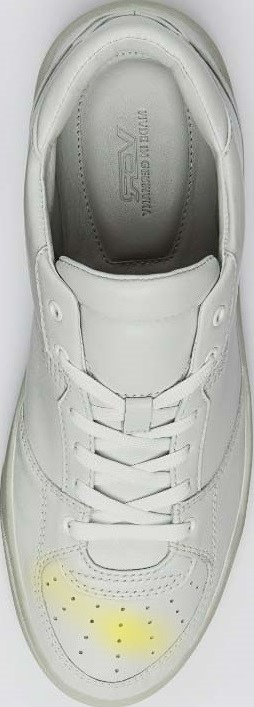
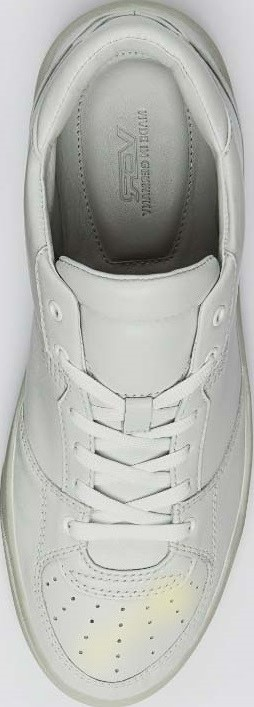
finish solution

Changed region(s): [[0.1378, 0.7779, 0.6614, 0.9335]]

diff --git a/FQCS.ColorDetection/final_solution/color_detection.py b/FQCS.ColorDetection/final_solution/color_detection.py
@@ -1,0 +1,106 @@
+import numpy as np 
+import cv2 
+
+def change_contrast_and_brightness(image, alpha, beta):
+    new_image = np.zeros(image.shape, image.dtype)
+    new_image = cv2.convertScaleAbs(image, alpha=alpha, beta=beta)
+    return new_image
+
+# [get-psnr]
+def getPSNR(I1, I2):
+    s1 = cv2.absdiff(I1, I2) #|I1 - I2|
+    s1 = np.float32(s1)     # cannot make a square on 8 bits
+    s1 = s1 * s1            # |I1 - I2|^2
+    sse = s1.sum()          # sum elements per channel
+    if sse <= 1e-10:        # sum channels
+        return 0            # for small values return zero
+    else:
+        shape = I1.shape
+        mse = 1.0 * sse / (shape[0] * shape[1] * shape[2])
+        psnr = 10.0 * np.log10((255 * 255) / mse)
+        return psnr
+
+def getMSSISM(i1, i2, C1, C2):
+    # INITS
+    I1 = np.float32(i1) # cannot calculate on one byte large values
+    I2 = np.float32(i2)
+    I2_2 = I2 * I2 # I2^2
+    I1_2 = I1 * I1 # I1^2
+    I1_I2 = I1 * I2 # I1 * I2
+    # END INITS
+    # PRELIMINARY COMPUTING
+    mu1 = cv2.GaussianBlur(I1, (11, 11), 1.5)
+    mu2 = cv2.GaussianBlur(I2, (11, 11), 1.5)
+    mu1_2 = mu1 * mu1
+    mu2_2 = mu2 * mu2
+    mu1_mu2 = mu1 * mu2
+    sigma1_2 = cv2.GaussianBlur(I1_2, (11, 11), 1.5)
+    sigma1_2 -= mu1_2
+    sigma2_2 = cv2.GaussianBlur(I2_2, (11, 11), 1.5)
+    sigma2_2 -= mu2_2
+    sigma12 = cv2.GaussianBlur(I1_I2, (11, 11), 1.5)
+    sigma12 -= mu1_mu2
+    t1 = 2 * mu1_mu2 + C1
+    t2 = 2 * sigma12 + C2
+    t3 = t1 * t2                    # t3 = ((2*mu1_mu2 + C1).*(2*sigma12 + C2))
+    t1 = mu1_2 + mu2_2 + C1
+    t2 = sigma1_2 + sigma2_2 + C2
+    t1 = t1 * t2                    # t1 =((mu1_2 + mu2_2 + C1).*(sigma1_2 + sigma2_2 + C2))
+    ssim_map = cv2.divide(t3, t1)    # ssim_map =  t3./t1;
+    mssim = cv2.mean(ssim_map)       # mssim = average of ssim map
+    return mssim
+
+def preprocess(img, img_size = (32, 64),blur_val = 0.05, alpha=1, beta=-150, sat_adj=2):
+    img = change_contrast_and_brightness(img, alpha, beta)
+    img = cv2.blur(img, (round(img.shape[0] * blur_val),round(img.shape[1] * blur_val)))
+    img = cv2.resize(img, img_size)
+    if (sat_adj!=1):
+        img = cv2.cvtColor(img, cv2.COLOR_BGR2HSV)
+        img[:,:,1]*=sat_adj
+        img = cv2.cvtColor(img, cv2.COLOR_HSV2BGR)
+    return img
+
+def find_diff(test, true, matrix, ver_step, hor_step, biases,C1,C2,psnrTriggerValue,min_similarity):
+    results = np.zeros(matrix)
+    for v in range(matrix[0]):
+        for h in range(matrix[1]):
+            sub_test = test[v*ver_step:(v+1)*ver_step, h*hor_step: (h+1)*hor_step]
+            sub_true = true[v*ver_step:(v+1)*ver_step, h*hor_step: (h+1)*hor_step]
+
+            # hist_diff(sub_left, sub_right, hist_color_thresh)
+
+            psnrv = getPSNR(sub_test, sub_true)
+            print("{}dB".format(round(psnrv, 3)))
+            mssimv = None
+            if (psnrv < psnrTriggerValue and psnrv):
+                mssimv = getMSSISM(sub_test, sub_true, C1, C2)
+                # bias
+                mssimv = np.array(mssimv)/biases[v,h]
+                print("MSSISM: R {}% G {}% B {}%".format(round(mssimv[0] * 100, 2), round(mssimv[1] * 100, 2),
+                                                        round(mssimv[2] * 100, 2)))
+
+            mssimv = None if mssimv is None else mssimv[:3]
+            has_diff = 1 if mssimv is not None and mssimv[mssimv<min_similarity].any() else 0
+            results[v,h] = has_diff
+
+    has_diff = results[results==1].any()
+    return results, has_diff
+
+def detect_color_difference(test_left, test_right, true_left, true_right, 
+    biases = None, C1=6.5025,
+    C2=58.5225,psnrTriggerValue = 40,img_size = (32, 64),
+    blur_val = 0.05, alpha_r=1, beta_r=-150, alpha_l=1, beta_l=-150,
+    sat_adj=2,
+    matrix = (4, 4),min_similarity = 0.8):
+    # START
+    right = preprocess(test_right, img_size, blur_val, alpha_r, beta_r, sat_adj)
+    left = preprocess(test_left, img_size, blur_val, alpha_l, beta_l, sat_adj)
+    if biases is None:
+        biases = np.ones(matrix)
+    # must be divisible 
+    ver_step = left.shape[0]//matrix[0]
+    hor_step = left.shape[1]//matrix[1]
+
+    left_results, left_has_diff = find_diff(left, true_left, matrix, ver_step, hor_step, biases,C1,C2,psnrTriggerValue, min_similarity)
+    right_results, right_has_diff = find_diff(right, true_right, matrix, ver_step, hor_step, biases,C1,C2,psnrTriggerValue,min_similarity)
+    return left_results, left_has_diff, right_results, right_has_diff   

diff --git a/FQCS.ColorDetection/final_test.py b/FQCS.ColorDetection/final_test.py
@@ -1,0 +1,54 @@
+from final_solution import color_detection as cd
+import numpy as np 
+import cv2 
+import matplotlib.pyplot as plt
+
+# -------------- PARAM ---------------------
+# increase mean decrease sensitive ... (manual test)
+# C1 = 6.5025
+# C2 = 58.5225
+C1 = 6.5025/3
+C2 = 58.5225/3
+
+psnrTriggerValue = 40
+img_size = (32, 64)
+blur_val = 0.05
+alpha_r, alpha_l = 1, 1
+beta_r, beta_l = -150, -150
+
+# SEGMENT MATRIX
+# matrix = (2, 2)
+matrix = (4, 4)
+# matrix = (8, 8)
+
+# BIASES MATRIX
+biases = np.array([
+    [0.9, 1.1, 1, 0.8],
+    [1, 1, 1, 0.8],
+    [0.65, 1, 1, 0.65],
+    [0.1, 1.1, 1.1, 0.1],
+])
+
+sat_adj = 2
+
+min_similarity = 0.9
+# -------------------------------------------
+left = cv2.imread("d_left_3.jpg")
+right = cv2.imread("d_right_3.jpg")
+true_left = cv2.imread("d_left_3_true.jpg")
+true_right = cv2.imread("d_right_3_true.jpg")
+
+true_left = cd.preprocess(true_left, img_size, blur_val, alpha_l, beta_l, sat_adj)
+true_right = cd.preprocess(true_right, img_size, blur_val, alpha_r, beta_r, sat_adj)
+
+left_results, left_has_diff, right_results, right_has_diff = cd.detect_color_difference(left, right, true_left, true_right,
+    biases, C1, C2, psnrTriggerValue, img_size, blur_val, alpha_r,beta_r,alpha_l,beta_l, sat_adj, matrix, min_similarity)
+
+fig,axs = plt.subplots(1, 2)
+left_res = "Left " if left_has_diff else ""
+right_res = "Right " if right_has_diff else ""
+if (left_has_diff or right_has_diff):
+    plt.title("Different " + left_res + right_res)
+axs[0].imshow(left)
+axs[1].imshow(right)
+plt.show()

diff --git a/FQCS.ColorDetection/m2_color_detection.py b/FQCS.ColorDetection/m2_color_detection.py
@@ -99,14 +99,21 @@ psnrTriggerValue = 40
 img_size = (32, 64)
 blur_val = 0.05
 left = cv2.imread("d_left_3.jpg")
-left = cv2.cvtColor(left, cv2.COLOR_BGR2RGB)
+left = cv2.cvtColor(left, cv2.COLOR_BGR2HSV)
 right = cv2.imread("d_right_3.jpg")
-right = cv2.cvtColor(right, cv2.COLOR_BGR2RGB)
+right = cv2.cvtColor(right, cv2.COLOR_BGR2HSV)
+left[:,:,1]*=3
+right[:,:,1]*=3
+
+left = cv2.cvtColor(left, cv2.COLOR_HSV2RGB)
+right = cv2.cvtColor(right, cv2.COLOR_HSV2RGB)
 
 fig,axs = plt.subplots(1, 2)
 axs[0].imshow(left)
 axs[1].imshow(right)
 plt.show()
+
+
 
 right = change_contrast_and_brightness(right, 1, -150)
 left = change_contrast_and_brightness(left, 1, -150)
